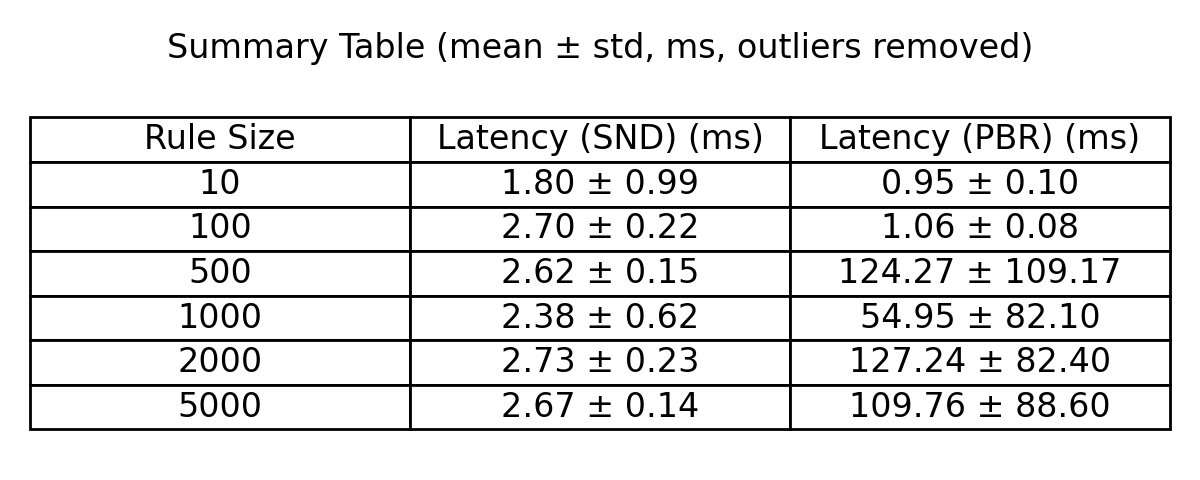
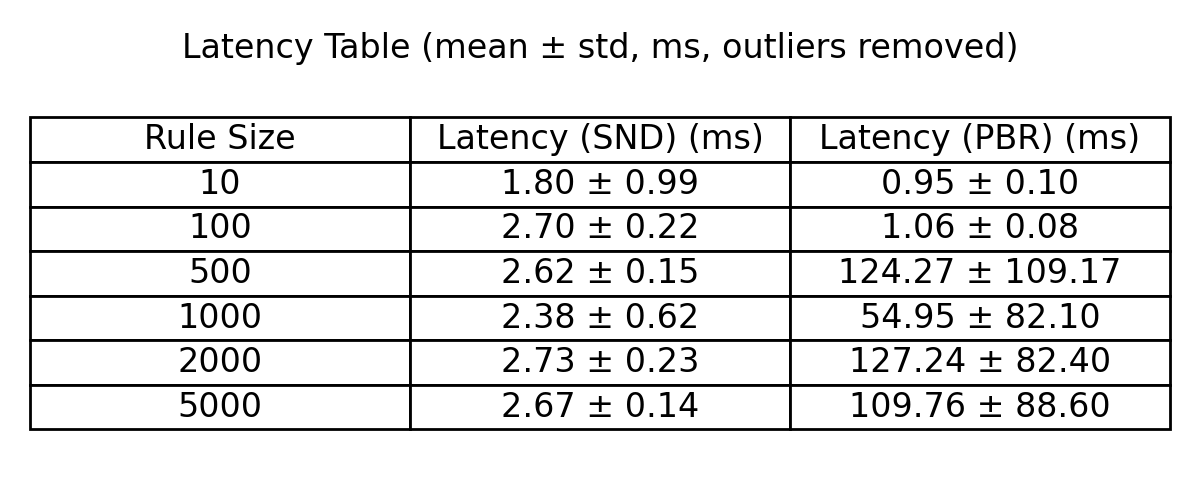
Added a new plot, Updated titles in plots

Changed region(s): [[0.1233, 0.0625, 0.8633, 0.1562]]

diff --git a/scripts/plot_resp.py b/scripts/plot_resp.py
@@ -116,6 +116,29 @@ def plot_delays(data, means, stds):
     plt.savefig("plots/responsiveness.png", dpi=200)
 
 
+def plot_table_figure(means, stds, output="plots/resp_table"):
+    sizes = sorted(means.keys())
+    rows = []
+    for size in sizes:
+        row = [size]
+        for col in ["overall_delay", "api_delay", "policy_delay", "residual_delay"]:
+            row.append(f"{means[size][col]} ± {stds[size][col]}")
+        rows.append(row)
+
+    header = ["Rule Size", "Overall (ms)", "API (ms)", "Policy (ms)", "Residual (ms)"]
+
+    fig, ax = plt.subplots(figsize=(8, len(rows) * 0.6 + 1))
+    ax.axis("off")
+    table = ax.table(cellText=rows, colLabels=header, loc="center", cellLoc="center")
+    table.auto_set_font_size(False)
+    table.set_fontsize(12)
+    table.scale(1.2, 1.4)
+    plt.title("Responsiveness Table (mean ± std, outliers removed)", pad=14)
+    plt.tight_layout()
+    plt.savefig(output, dpi=200)
+    # plt.show()
+
+
 def print_table(means, stds):
     # Build a DataFrame for pretty printing
     sizes = sorted(means.keys())
@@ -140,11 +163,14 @@ def print_table(means, stds):
 
 
 if __name__ == "__main__":
-    parser = argparse.ArgumentParser(description="Plot delays from multi-section file.")
+    parser = argparse.ArgumentParser(
+        description="Plot responsiveness from multi-section file."
+    )
     parser.add_argument("file", help="Input file")
     args = parser.parse_args()
     data = parse_file(args.file)
     # print(data[2000])
     means, stds = summary_stats(data)
     plot_delays(data, means, stds)
-    print_table(means, stds)
+    # print_table(means, stds)
+    plot_table_figure(means, stds)

diff --git a/src/mininet/topo.py b/src/mininet/topo.py
@@ -134,7 +134,6 @@ def setupRoutingTopology():
     # Configure DNS on hosts
     for host in net.hosts:
         if host.name != "dns":
-            host.cmd("rm -f /etc/resolv.conf")
             host.cmd('echo "nameserver 10.0.0.253" > /etc/resolv.conf')
             # host.cmd("sysctl -w net.ipv4.conf.all.rp_filter=0")
             # host.cmd("sysctl -w net.ipv4.conf.default.rp_filter=0")
@@ -143,8 +142,6 @@ def setupRoutingTopology():
             # host.cmd("sysctl -w net.core.netdev_max_backlog=5000")
             # host.cmd('echo "soft nofile 100000"|sudo tee -a /etc/security/limits.conf')
             # host.cmd('echo "hard nofile 100000"|sudo tee -a /etc/security/limits.conf')
-
-    h4.cmd('echo "nameserver 10.0.0.254" > /etc/resolv.conf')
 
     info("*** Running apps at different hosts\n")
     # starting up controller and the dns policy engine

diff --git a/scripts/plot_comp.py b/scripts/plot_comp.py
@@ -101,7 +101,7 @@ def plot(data1, data2, output):
     table.auto_set_font_size(False)
     table.set_fontsize(12)
     table.scale(1, 1.4)
-    plt.title("Summary Table (mean ± std, ms, outliers removed)", pad=14)
+    plt.title("Latency Table (mean ± std, ms, outliers removed)", pad=14)
     plt.tight_layout()
     plt.savefig("plots/latency_table.png", dpi=200)
 
